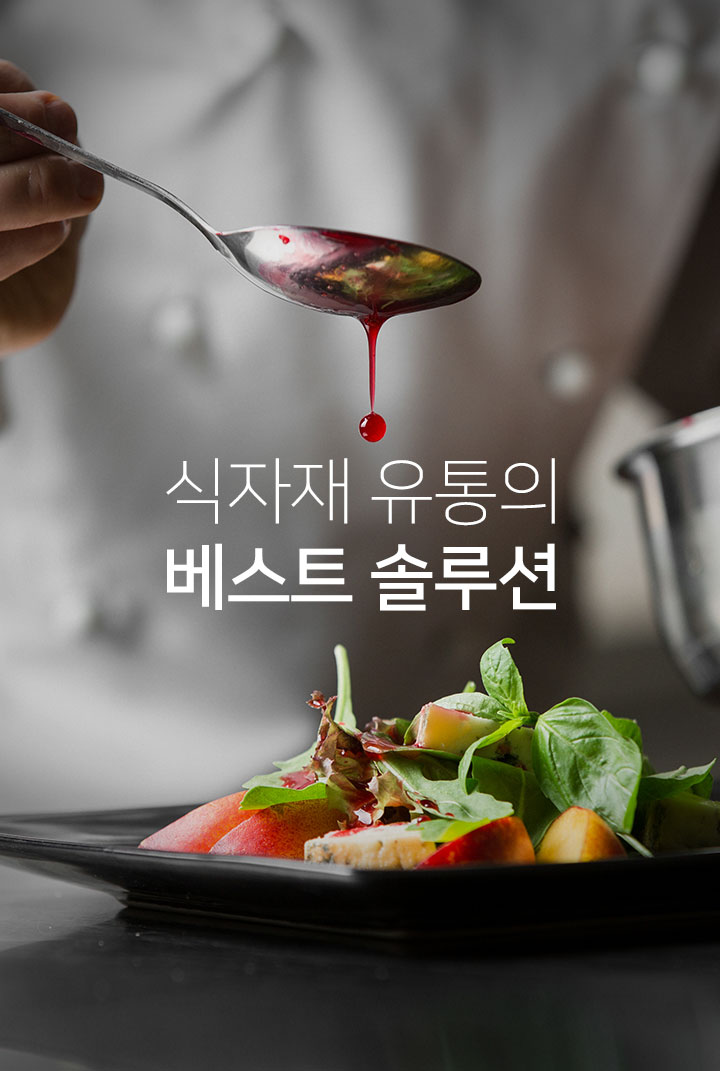
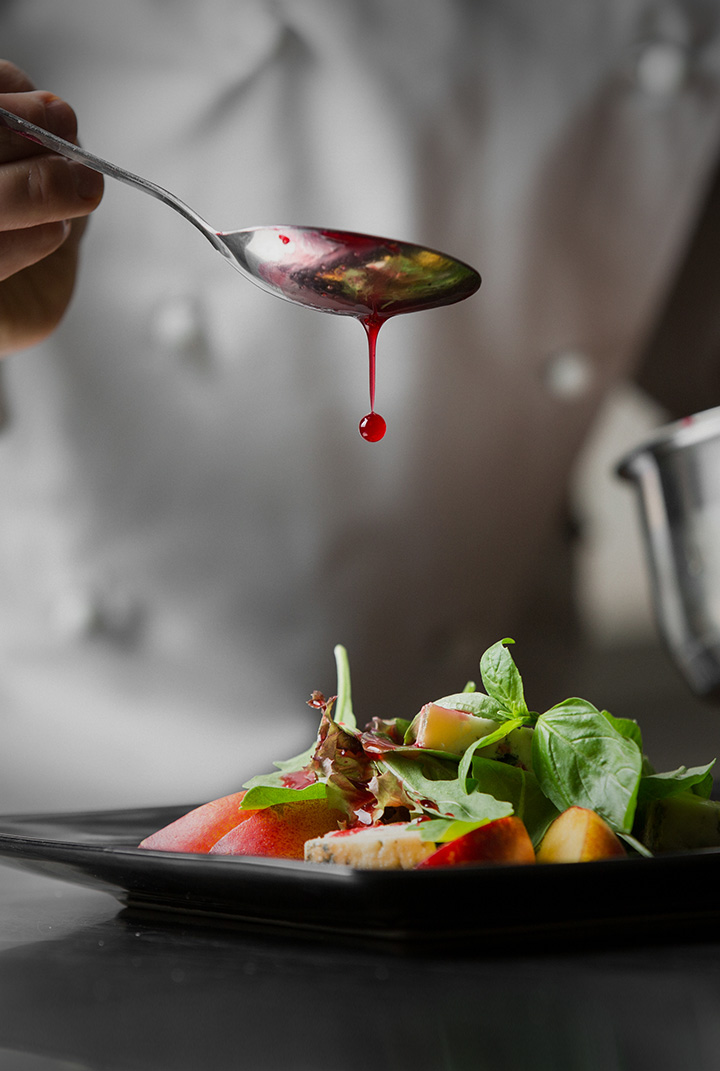
메인 상단 수정

Changed region(s): [[0.5194, 0.4314, 0.7944, 0.5854], [0.2139, 0.4314, 0.4889, 0.5854]]

diff --git a/public/src/pjtCom/mobile/css/main.css b/public/src/pjtCom/mobile/css/main.css
@@ -10,6 +10,11 @@
 .visual_area img { width:100%; }
 .visual_area .swiper-pagination-bullet { opacity:1; width:8px; height:8px; border:1px solid #fff; background:none; box-sizing:border-box; }
 .visual_area .swiper-pagination-bullet-active { background:#fff; }
+.visual_area .swiper-slide { position:relative; }
+.visual_area .swiper-slide .txt { display:block; position:absolute; left:0; top:50%; width:100%; transform:translate(0,-50%); color:#fff; font-weight:600; font-size:36px; line-height:44px; text-align:center; margin-top:0.3em; opacity:0; transition:1.0s;}
+.visual_area .swiper-slide img { transform:scale(1.1); transition:10s; }
+.visual_area .swiper-slide.swiper-slide-active img { transform:scale(1); }
+.visual_area .swiper-slide.swiper-slide-active .txt { margin-top:0; opacity:1; }
 
 .product_area { margin-top:40px; padding:0 20px; }
 .product_area .header_area { position:relative; text-align:center; }
